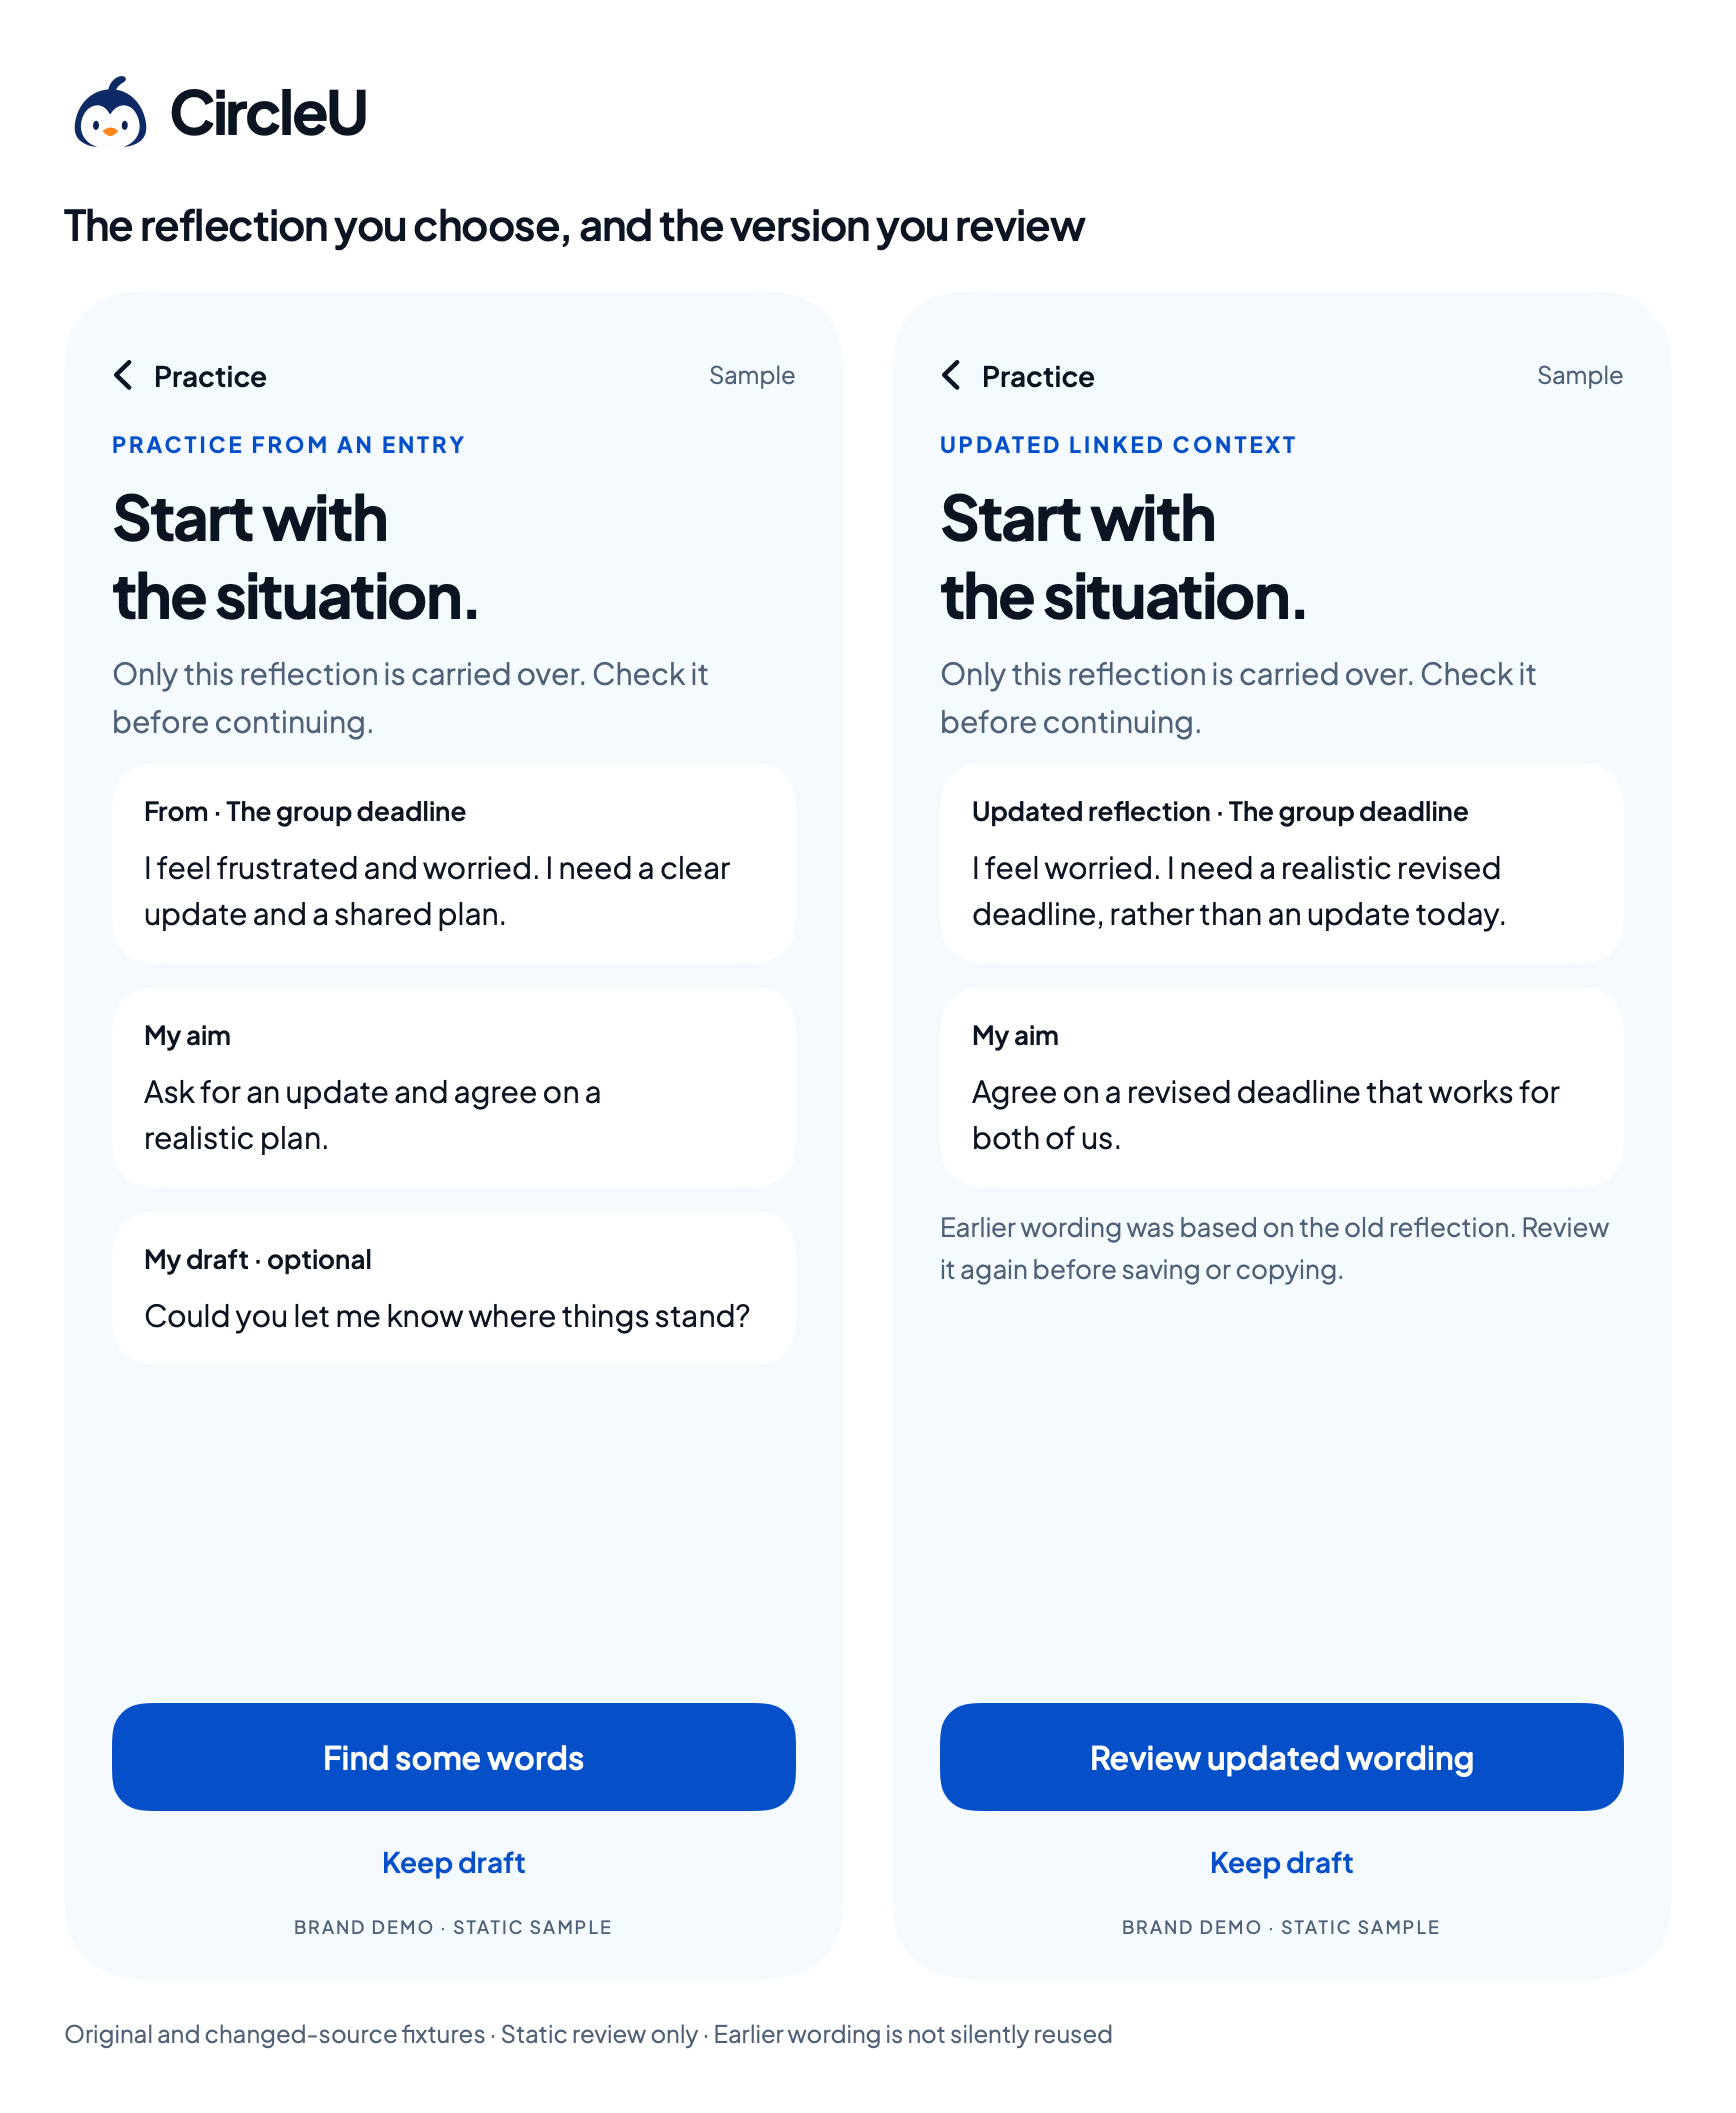
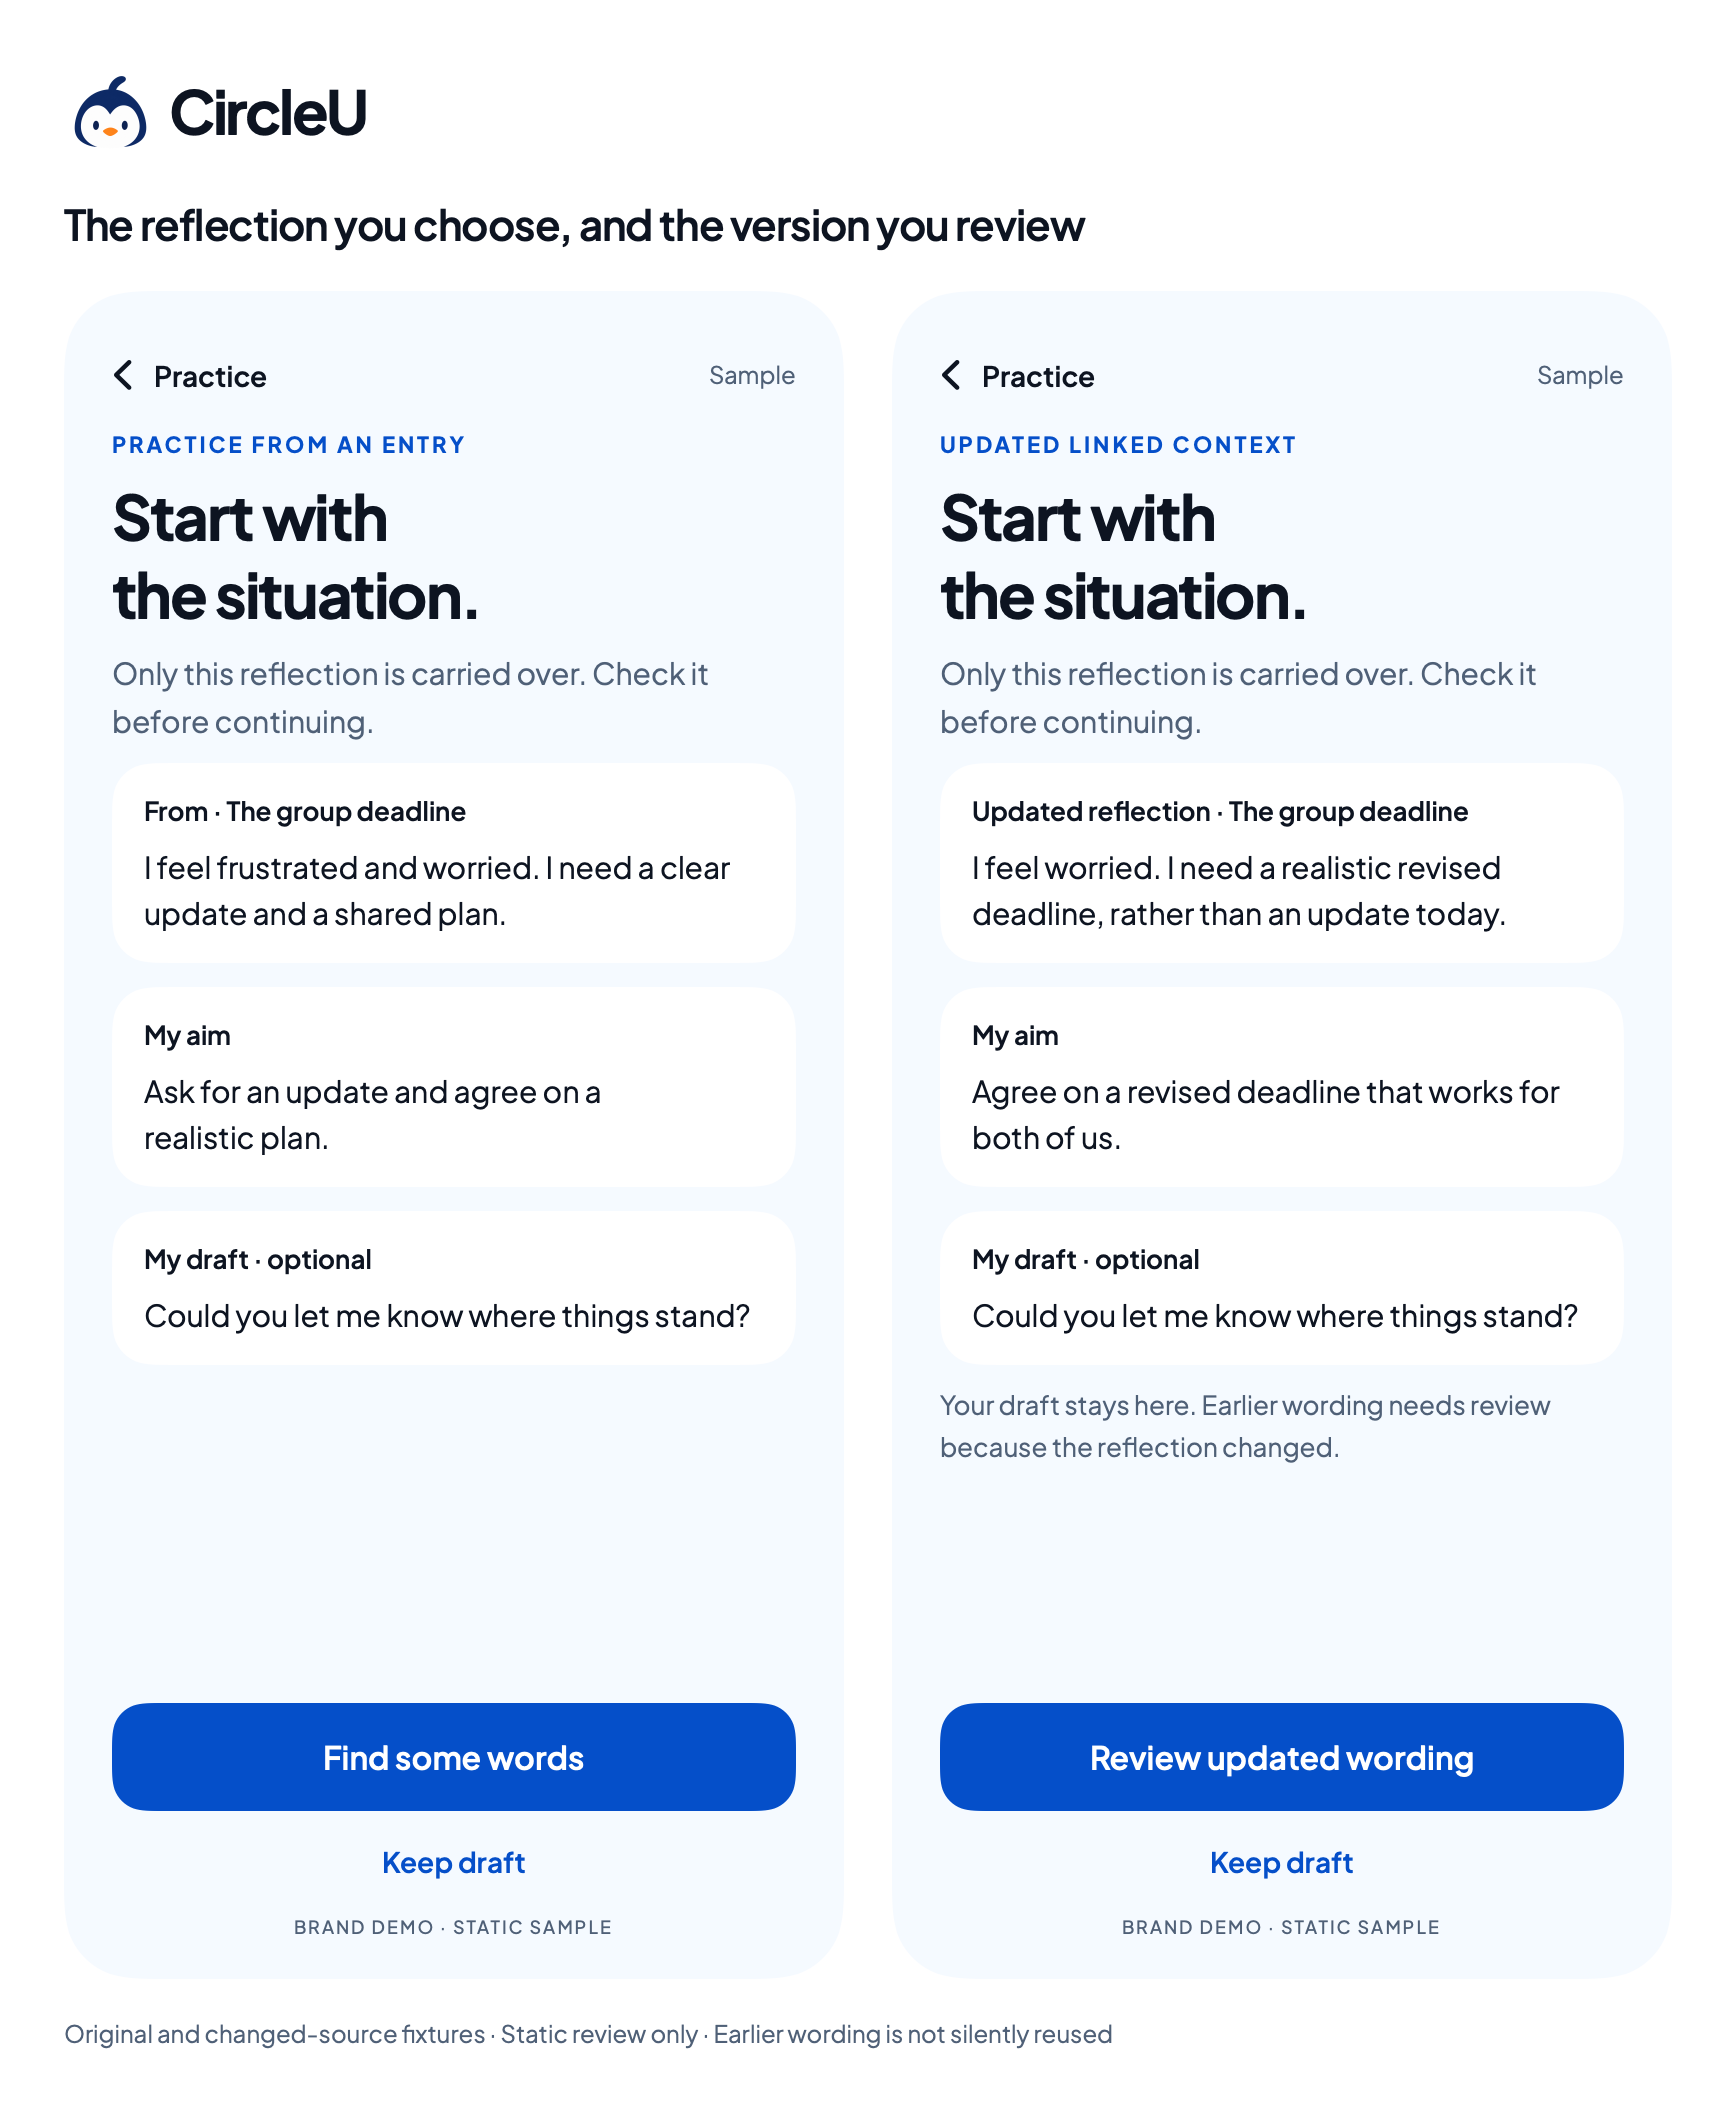
fix(prototype): preserve drafts when linked context changes
Retain the optional message draft alongside the changed-source notice, and link an actual empty-day specimen in the recovery comparison. Independent reviewer confirmed both source/document fixes; coordinator rebuilt, rendered and inspected the final corrected image. All interactions remain static.

Changed region(s): [[0.5599, 0.5622, 0.9332, 0.6247], [0.5288, 0.6559, 0.871, 0.6872]]

diff --git a/Prototypes/CircleUVisualPrototype/Sources/CircleUVisualPrototype/BrandJourneyPreview.swift b/Prototypes/CircleUVisualPrototype/Sources/CircleUVisualPrototype/BrandJourneyPreview.swift
@@ -122,10 +122,9 @@ public struct BrandJourneyPreview: View {
             block("My aim", text: updatedSource
                 ? "Agree on a revised deadline that works for both of us."
                 : "Ask for an update and agree on a realistic plan.")
+            block("My draft · optional", text: "Could you let me know where things stand?")
             if updatedSource {
-                BrandFixture.detail("Earlier wording was based on the old reflection. Review it again before saving or copying.", size: 13)
-            } else {
-                block("My draft · optional", text: "Could you let me know where things stand?")
+                BrandFixture.detail("Your draft stays here. Earlier wording needs review because the reflection changed.", size: 13)
             }
         case .wording:
             BrandFixture.detail(linkedContext ? "Linked to The group deadline" : "Standalone practice · No journal entry", size: 12)

diff --git a/docs/agent-collaboration-log/2026-10-24-013754-codex-preview-review-fixes.md b/docs/agent-collaboration-log/2026-10-24-013754-codex-preview-review-fixes.md
@@ -1,0 +1,16 @@
+# Independent preview review and corrections
+
+- Recorded: 2026-10-24 01:37:54 +1100; Australia/Sydney.
+- Agent / role: Codex coordinator; reviewer `preview_milestone_review`.
+- Reviewed range: `3d9e012..a62d4eb` plus pending calendar/renderer changes; single coordinator edits.
+
+Reviewer inspected the six core screens, two context variants, three galleries and saved/empty/multiple calendar specimens. Found no clipping; checked original-word separation, standalone/source labels, Copy/Save distinction and calendar dates/counts. This was a source/image review, not a build, service, device or behavioral test.
+
+## Actual exchanges
+
+1. Reviewer reported P2: the updated-source context replaced the user's optional draft with a stale notice, visually implying draft loss. Coordinator accepted and retained the same draft in both context specimens, adding a separate notice that explicitly says the draft stays. Reviewer rechecked the source and confirmed resolution; regenerated pixels were still pending at their follow-up. Coordinator then rebuilt/rerendered and inspected the final updated-context PNG: draft, notice, actions and footer are present without clipping.
+2. Reviewer reported P3: the “read failure versus empty day” table linked failed/locked storage without an actual empty-day reference. Coordinator added the existing empty-day PNG and kept locked storage distinct. Reviewer confirmed resolution.
+
+No additional material issue was reported in the source/document fixes. Reviewer did not approve the forthcoming worksheet/plan-status edits; those are coordinator-owned and checked separately. All new content remains fictional and all actions static.
+
+Final correction build and renderer passed with the real-font assertion; `git diff --check` checked before commit. No app/Simulator, live Canvas, Firebase, clipboard, keyboard, accessibility, storage or source invalidation behavior was tested. Calendar/search decisions and actual walkthrough outcomes remain pending, not inferred from this review.

diff --git a/docs/design/brand-demo/core-journeys.md b/docs/design/brand-demo/core-journeys.md
@@ -34,7 +34,7 @@ These links reuse earlier connected Draft 02 scenarios. They are preset states a
 | Changed original source | [Source changed, 36:416](https://www.figma.com/design/RVLtfmIVcO8gNk5fam0Vjd?node-id=36-416) |
 | Preserved reflection/message edits after failed save | [Reflection failure, 36:396](https://www.figma.com/design/RVLtfmIVcO8gNk5fam0Vjd?node-id=36-396), [message failure, 36:397](https://www.figma.com/design/RVLtfmIVcO8gNk5fam0Vjd?node-id=36-397) |
 | Model unavailable / manual fallback | [Model unavailable, 36:389](https://www.figma.com/design/RVLtfmIVcO8gNk5fam0Vjd?node-id=36-389) |
-| Read failure versus empty day | [Storage read failure, 36:437](https://www.figma.com/design/RVLtfmIVcO8gNk5fam0Vjd?node-id=36-437), [locked storage, 36:411](https://www.figma.com/design/RVLtfmIVcO8gNk5fam0Vjd?node-id=36-411) |
+| Read failure versus empty day | [Empty-day sample](../swiftui-previews/brand-03-journal-empty.png), [storage read failure, 36:437](https://www.figma.com/design/RVLtfmIVcO8gNk5fam0Vjd?node-id=36-437); [locked storage, 36:411](https://www.figma.com/design/RVLtfmIVcO8gNk5fam0Vjd?node-id=36-411) remains a distinct condition |
 
 ## Verification boundaries
 
